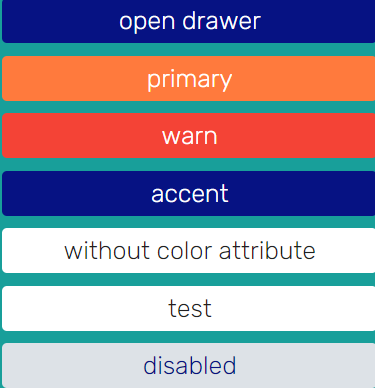
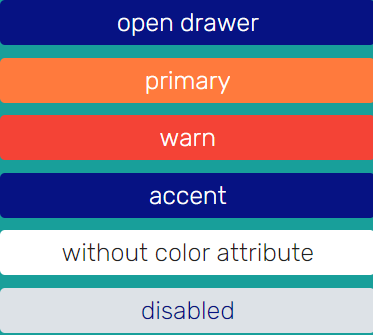
[readme] changed button img

diff --git a/README.md b/README.md
@@ -1,4 +1,15 @@
 ### ComponentsForProject
+<h3>global classes: </h3>
+<ul>
+    <li>.text__content - обычный размер текста</li>
+    <li>.text__headline - размерз текста для загаловков</li>
+    <li>.input - класс, для стилизации инпута</li>
+    <li>.dot - разноцветные точки</li>
+    <li>container-right - горизонтальный flex блок, который позиционирует текст по правой стороне </li>
+    <li>.avatar - класс, для стилизации картинки с длиной и шириной 85px</li>
+    <li>.card-blue - класс, для стилизации component’a с синим background’ом (homework-status component; feedback component)</li>
+</ul>
+
 <h3>global: </h3>
 <ul>
     <li>$inactive-color: #DDE2E7</li>
@@ -19,17 +30,6 @@
     <li>$drawer-hr-color: цвет обводки</li>
 </ul>
 
-<h3>global classes: </h3>
-<ul>
-    <li>.text__content - обычный размер текста</li>
-    <li>.text__headline - размерз текста для загаловков</li>
-    <li>.input - класс, для стилизации инпута</li>
-    <li>.dot - разноцветные точки</li>
-    <li>container-right - горизонтальный flex блок, который позиционирует текст по правой стороне </li>
-    <li>.avatar - класс, для стилизации картинки с длиной и шириной 85px</li>
-    <li>.card-blue - класс, для стилизации component’a с синим background’ом (homework-status component; feedback component)</li>
-</ul>
-
 <h3>card-student:</h3>
 <ul>
     <li>$card-student-border-radius:  border-radius всей карточки</li>
@@ -47,7 +47,6 @@
 <button mat-flat-button color="primary">primary</button>
 <button mat-flat-button color="warn">warn</button>
 <button mat-flat-button color="accent">accent</button>
-
 
 <button mat-flat-button>without color attribute</button>
 <button mat-flat-button disabled>disabled</button>
@@ -75,6 +74,7 @@ export interface ISelect {
   options: ISelectOptions[];
 }
 ~~~
+![select](./demo/select.png)
 
 ## Dot
 ~~~html
@@ -113,7 +113,7 @@ export interface IInput {
   required: boolean;
 }
 ~~~
-![](./demo/input.png)
+![input](./demo/input.png)
 
 ## Feedback
 ~~~html
